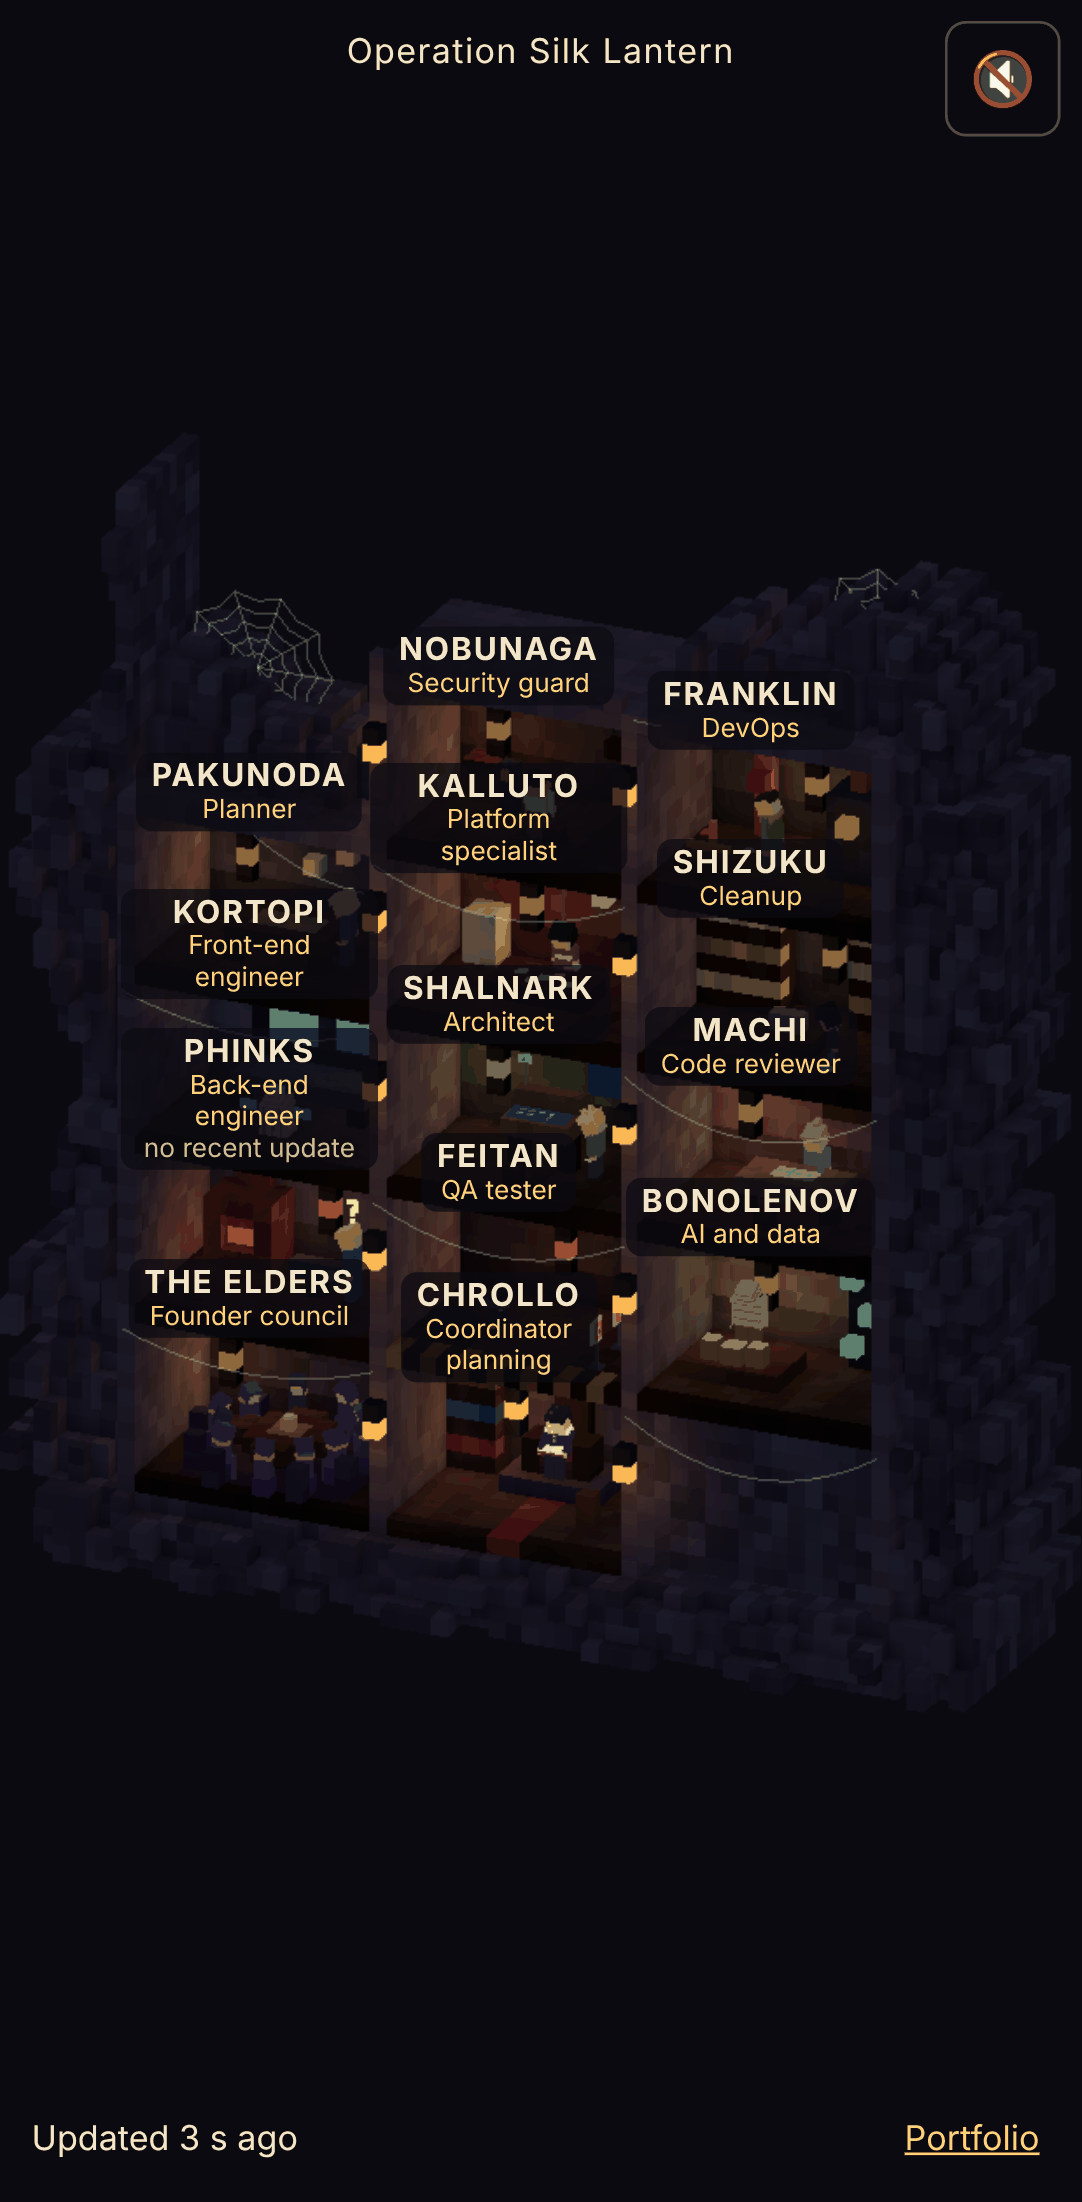
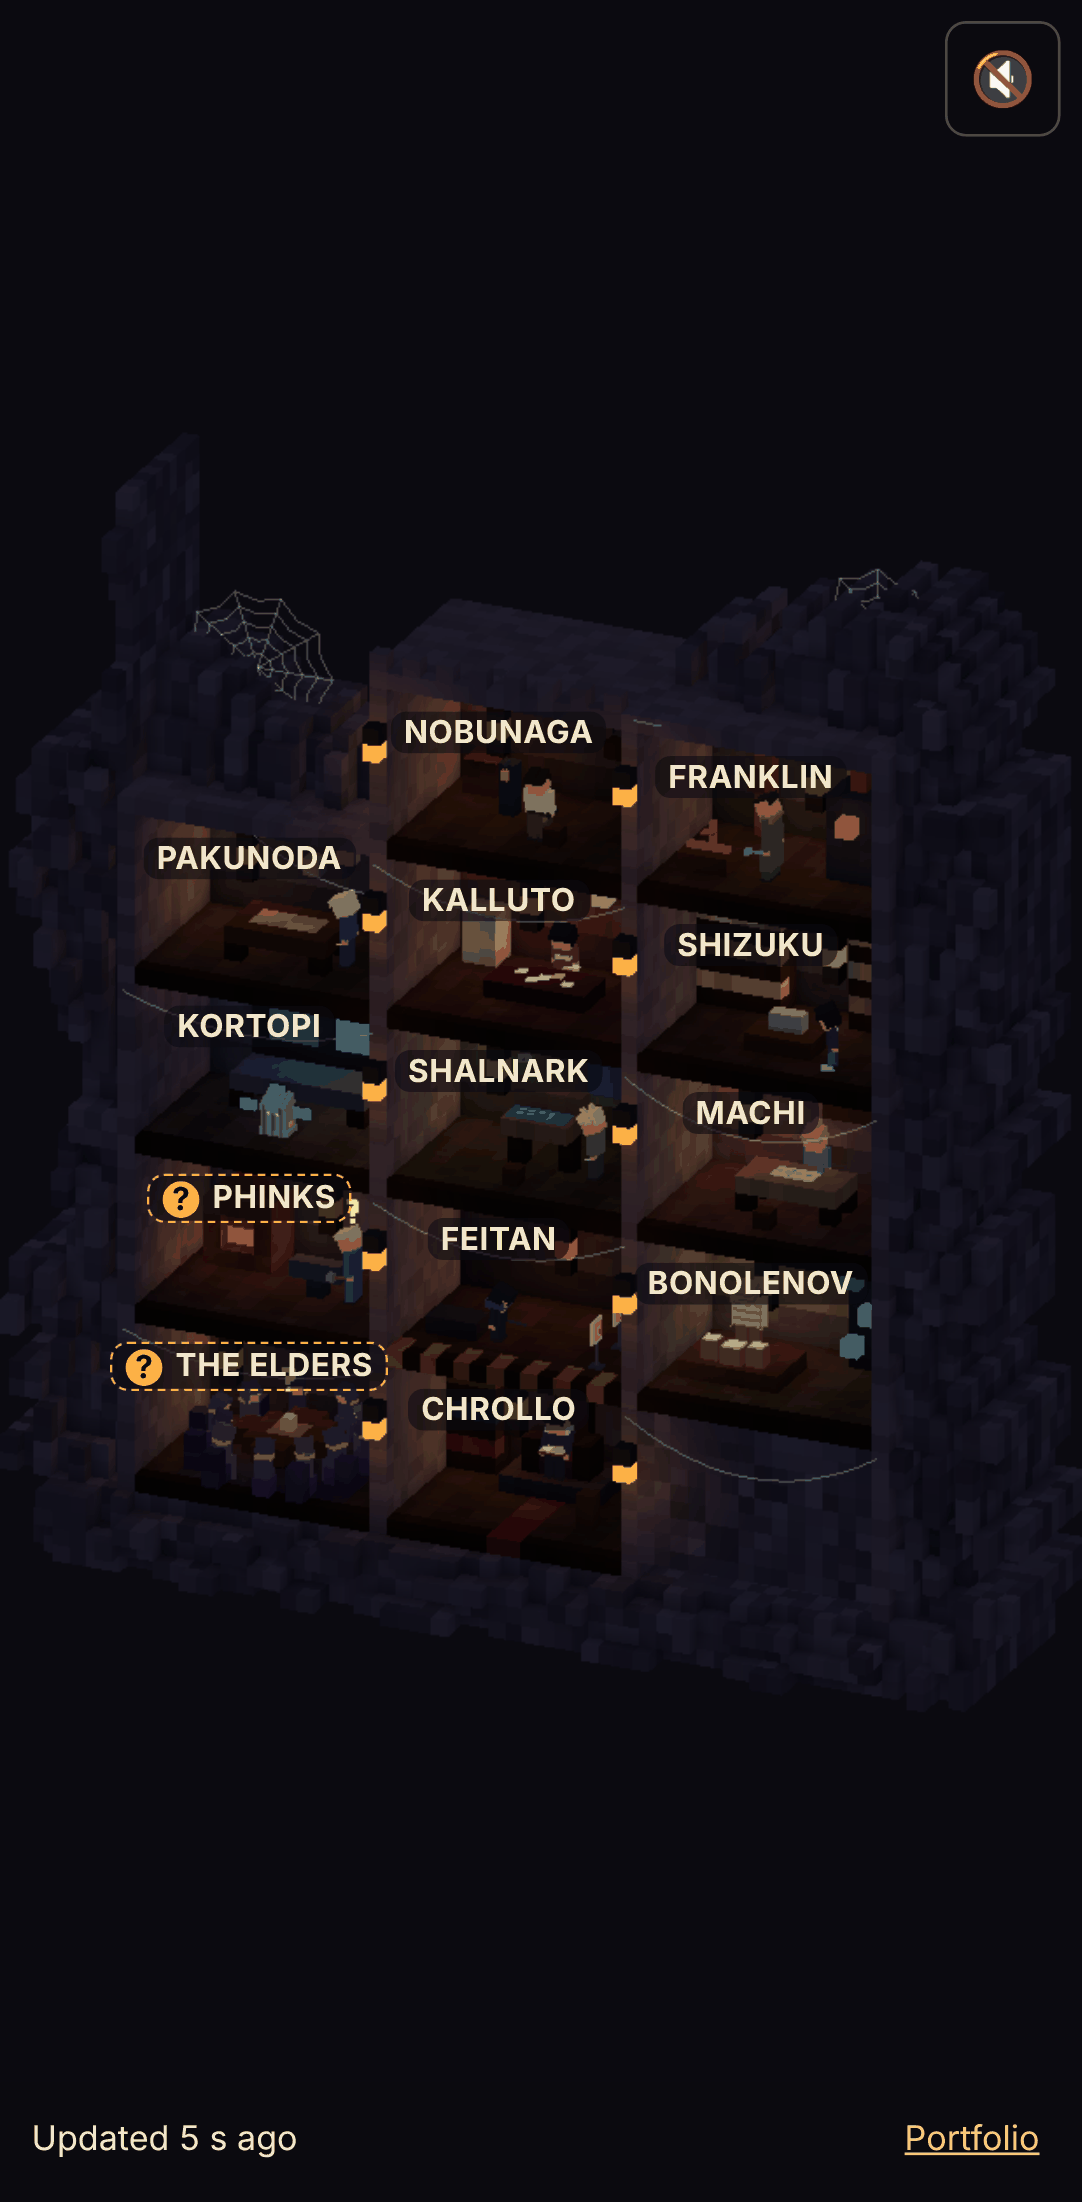
Retake phone and desktop screenshots for compact phone labels
Re-shot phone-1, phone-2, phone-4, phone-5 and desktop-2 and updated
the per-image notes.

-C.L.

diff --git a/docs/screenshots/README.md b/docs/screenshots/README.md
@@ -9,7 +9,7 @@ and is captured at the glow peak of a real working -> done transition.
 | # | Scene | Notes |
 |---|-------|-------|
 | 1 | Overview, all idle | `desktop-1-overview-idle`, `phone-1-overview-idle` |
-| 2 | Several members working | verbs on labels, mission banner 4/12, ticker |
+| 2 | Several members working | dot markers on phone labels (verbs on desktop labels), mission banner 4/12, ticker |
 | 3 | Done celebration | demo feed; the room glow is brief (about 3 s) |
 | 4 | Stale room | working with no write for 4.5 h: "no recent update" and a "?" |
 | 5 | Room panel open on a working member | Kortopi, progress 3 / 5 |
@@ -19,16 +19,16 @@ and is captured at the glow peak of a real working -> done transition.
 Honest notes per image (what looks good, what looks off):
 
 - desktop-1: clean, whole hideout fitted, labels readable; nothing lit, as it should be.
-- desktop-2: working rooms glow with verbs under role; banner and ticker clear. The labels for working members grow taller and cover a little of the room below them.
+- desktop-2: working rooms glow with verbs under role; banner and ticker clear. Labels of working members are one line taller (role + verb) and still cover a little of the wall strip of the room below; desktop is unchanged by the phone label work (re-taken only to confirm that).
 - desktop-3: Pakunoda's room is warm, ticker lists "finished" lines; the demo feed puts many events at "just now".
 - desktop-4: Phinks shows "no recent update" and a "?" above the character; subtle but legible.
 - desktop-5: the zoom-in on the panel is strong; panel fields good. The Feitan label at bottom right is cut by the footer bar.
 - desktop-6: no scene change when offline, only the footer note (a stray "- " before the note was fixed in this branch; this image is after the fix).
 - desktop-7: toggle clearly on; no other visual change.
-- phone-1: scene is small with a large empty band above and below; labels are big for the rooms they sit on.
-- phone-2: verbs make labels three lines tall and they crowd the rooms; ticker collapsed to "Activity".
+- phone-1: labels are name-only, one line, in each room's ceiling strip, 12 px text; they no longer crowd the rooms. The scene is still small with a large empty band above and below.
+- phone-2: working members get an orange dot before the name; verbs and roles are no longer drawn (they stay in the DOM, visually hidden, and in the panel), so labels stay one line. Kortopi's label touches the edge of its monitor; ticker collapsed to "Activity".
 - phone-3: two-line, four-row banner pushes down, no overlap with the scene; the ticker is collapsed.
-- phone-4: "?" over the Elders/Phinks rooms is tiny; the "no recent update" label is the clear signal.
-- phone-5: panel readable; labels of other rooms show cut-off behind and beside it ("que", "Pla"), and the tiny labels over the zoomed room are noise.
+- phone-4: Phinks and The Elders (working, no write for 4.5 h) get a dashed outline and a "?" in the label, much easier to see than the old tiny "?" over the figure (that one still shows next to Phinks). The dashed Phinks label sits tight against the figure's "?" and lantern; "no recent update" text is now only in the panel.
+- phone-5: panel readable (name, role, plaque, state, verb, mission, running, tickets and bar); only the selected room's label (Kortopi, with its dot) stays visible, so the cut-off labels around the panel are gone. The zoomed room still shows the Phinks "?" prop and lanterns, which are part of the scene.
 - phone-6: calm offline line at the bottom, after the fix.
 - phone-7: toggle on, same as phone-2 otherwise.
